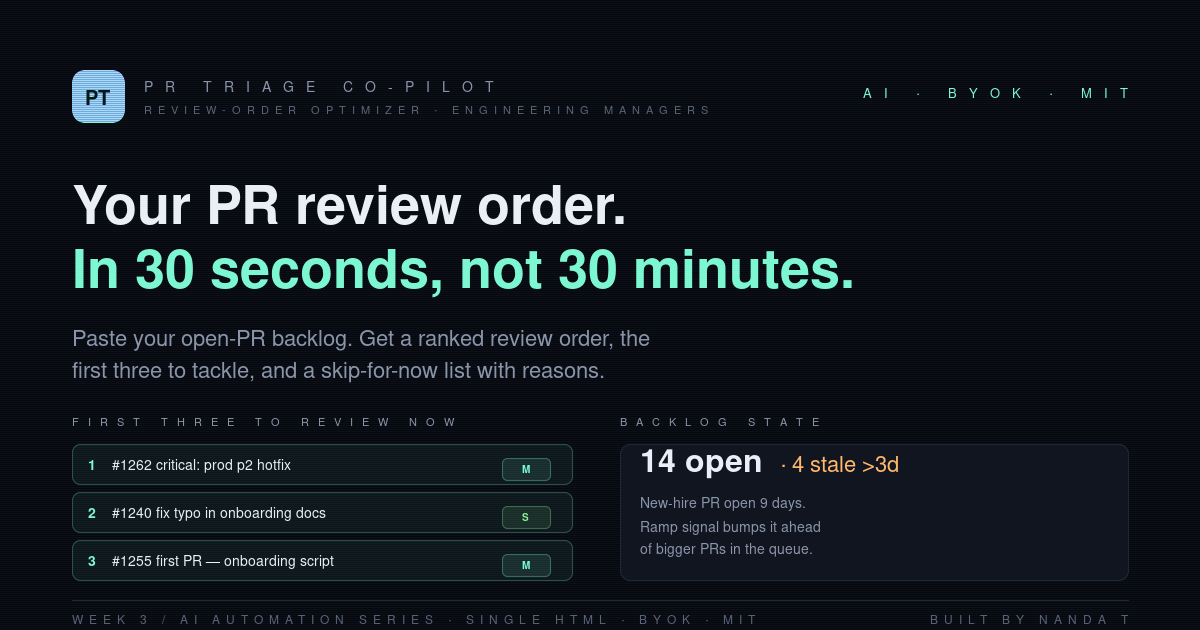
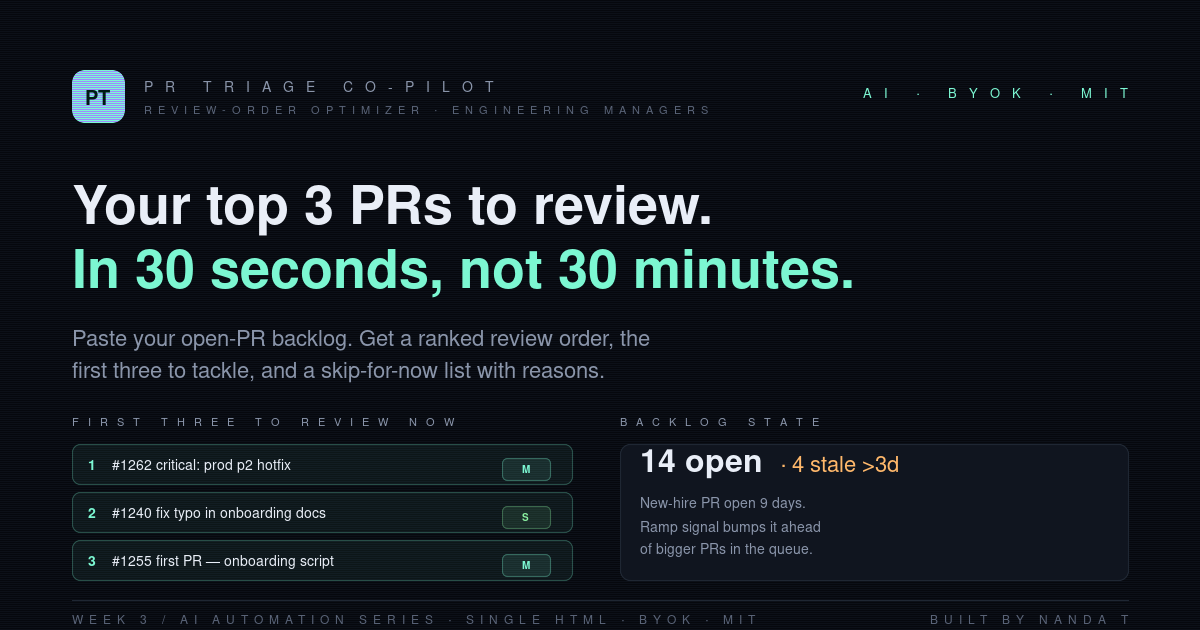
feat(pr-triage): sharper headline — Your top 3 PRs to review

Changed region(s): [[0.1542, 0.2714, 0.5858, 0.3619]]

diff --git a/pr-triage/index.html b/pr-triage/index.html
@@ -4,9 +4,9 @@
 <meta charset="utf-8" />
 <meta name="viewport" content="width=device-width, initial-scale=1.0" />
 <meta name="description" content="A 30-second PR review-order optimizer for engineering managers and tech leads. Paste your open-PR backlog and get a ranked review order, the first three to tackle, and skip-for-now reasons." />
-<title>PR Triage Co-pilot — Your PR review order, in 30 seconds</title>
+<title>PR Triage Co-pilot — Your top 3 PRs to review, in 30 seconds</title>
 
-<meta property="og:title" content="PR Triage Co-pilot — Your PR review order, in 30 seconds" />
+<meta property="og:title" content="PR Triage Co-pilot — Your top 3 PRs to review, in 30 seconds" />
 <meta property="og:description" content="Paste your open-PR backlog. Get a ranked review order, the first three to review now, skip-for-now reasons, and a backlog summary. Single HTML, BYOK, open source." />
 <meta property="og:image" content="https://nandudb.github.io/ai-automation/pr-triage/og.png" />
 <meta property="og:url" content="https://nandudb.github.io/ai-automation/pr-triage/" />
@@ -152,8 +152,8 @@
   </header>
 
   <section class="hero">
-    <div class="kicker">REVIEW-ORDER OPTIMIZER FOR ENGINEERING MANAGERS</div>
-    <h1>Your PR review order. <span class="hl">In 30 seconds, not 30 minutes.</span></h1>
+    <div class="kicker">PR TRIAGE FOR ENGINEERING MANAGERS · 30 SECONDS, NOT 30 MINUTES</div>
+    <h1>Your top 3 PRs to review. <span class="hl">In 30 seconds, not 30 minutes.</span></h1>
     <p class="lead">A triage tool for engineering managers and tech leads drowning in open PRs. Paste your backlog — counts, authors, ages, areas affected — and get back a <b>ranked review order, the first three to tackle now,</b> and a <b>skip-for-now</b> list with reasons.</p>
   </section>
 
